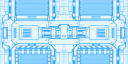
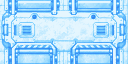
fix(belts): derive blueprint sprites from the closed-box and crossing art
The splitter blueprint still showed the old open shape; the connector used the
vanilla conveyor blueprint and the crossings their colour icon. tools/belt-sprites
now derives belt_{splitter,connector,heat_crossing,cable_crossing}_blueprint.png
from the part masters (luminance rank-matched to the ramp measured on the old
splitter blueprint, same (255 - R) * 0.8 alpha). Old blueprint master removed.

diff --git a/tools/belt-sprites/main.go b/tools/belt-sprites/main.go
@@ -20,28 +20,65 @@ import (
 	"math"
 	"os"
 	"path/filepath"
+	"sort"
 	"strings"
 )
 
 // masterTile is the stored master resolution per tile; the game uses 64 px per tile.
 const masterTile = 256
 
-// sprite: master name, size in tiles (w, h), output names for the 64 px/tile sprite and its editor icon (32 px/tile).
+// sprite: master name, size in tiles (w, h), output names for the 64 px/tile sprite, its editor icon (32 px/tile) and
+// its blueprint (64 px/tile, derived from the same master by blueprintOf; "" = vanilla blueprint inherited).
 type sprite struct {
-	master     string
-	w, h       int
-	file, icon string
+	master                string
+	w, h                  int
+	file, icon, blueprint string
 }
 
 var sprites = []sprite{
-	{"belt", 1, 1, "belt.png", "belt_icon.png"},
-	{"belt_connector", 1, 1, "belt_connector.png", "belt_connector_icon.png"},
-	{"belt_splitter", 2, 1, "belt_splitter.png", "belt_splitter_icon.png"},
-	{"belt_splitter_blueprint", 2, 1, "belt_splitter_blueprint.png", ""},
+	{"belt", 1, 1, "belt.png", "belt_icon.png", ""},
+	{"belt_connector", 1, 1, "belt_connector.png", "belt_connector_icon.png", "belt_connector_blueprint.png"},
+	{"belt_splitter", 2, 1, "belt_splitter.png", "belt_splitter_icon.png", "belt_splitter_blueprint.png"},
 	// Crossings: masters are drawn like belt.png (belt up, heat pipe / cable entering at the left and right edges under
 	// the belt); baked rotated 90 degrees clockwise into the part frame (belt flows right, network on Up/Down).
-	{"belt_heat_crossing", 1, 1, "belt_heat_crossing.png", "belt_heat_crossing_icon.png"},
-	{"belt_cable_crossing", 1, 1, "belt_cable_crossing.png", "belt_cable_crossing_icon.png"},
+	{"belt_heat_crossing", 1, 1, "belt_heat_crossing.png", "belt_heat_crossing_icon.png", "belt_heat_crossing_blueprint.png"},
+	{"belt_cable_crossing", 1, 1, "belt_cable_crossing.png", "belt_cable_crossing_icon.png", "belt_cable_crossing_blueprint.png"},
+}
+
+// blueprintRamp: colour by luminance rank (0 = darkest), measured on the former Codex splitter blueprint master
+// (quantiles 0/.1/.25/.5/.75/1), so derived blueprints keep the vanilla-like translucent blue look.
+var blueprintRamp = []struct {
+	t       float64
+	r, g, b float64
+}{{0, 0, 107, 237}, {.1, 16, 140, 247}, {.25, 49, 177, 253}, {.5, 104, 202, 252}, {.75, 160, 222, 252}, {1, 166, 225, 252}}
+
+// blueprintOf maps the part art to the blueprint ramp by luminance rank (histogram match, no pixel drawn) and keys alpha
+// from the red channel like vanilla blueprints (pale ~A76, lines ~A165+).
+func blueprintOf(m *image.NRGBA) *image.NRGBA {
+	out := image.NewNRGBA(m.Rect)
+	n := len(m.Pix) / 4
+	lum := make([]float64, n)
+	idx := make([]int, n)
+	for i := range n {
+		p := m.Pix[4*i:]
+		lum[i] = 0.299*float64(p[0]) + 0.587*float64(p[1]) + 0.114*float64(p[2])
+		idx[i] = i
+	}
+	sort.Slice(idx, func(a, b int) bool { return lum[idx[a]] < lum[idx[b]] })
+	for rank, i := range idx {
+		t := float64(rank) / float64(max(n-1, 1))
+		k := 1
+		for k < len(blueprintRamp)-1 && blueprintRamp[k].t < t {
+			k++
+		}
+		lo, hi := blueprintRamp[k-1], blueprintRamp[k]
+		f := (t - lo.t) / (hi.t - lo.t)
+		r := lo.r + f*(hi.r-lo.r)
+		o := out.Pix[4*i:]
+		o[0], o[1], o[2] = uint8(r), uint8(lo.g+f*(hi.g-lo.g)), uint8(lo.b+f*(hi.b-lo.b))
+		o[3] = uint8((255 - r) * 0.8)
+	}
+	return out
 }
 
 // layers are masters baked by code below, not by the sprites loop: belt_lamp = Codex indicator glow on black.
@@ -579,13 +616,10 @@ func main() {
 		if strings.HasSuffix(sp.master, "_crossing") {
 			m = rotateCW(m)
 		}
-		if strings.HasSuffix(sp.master, "_blueprint") {
-			// Vanilla blueprints are translucent blue (pale ~A76, lane ~A165): key alpha from the red channel.
-			for i := 0; i < len(m.Pix); i += 4 {
-				m.Pix[i+3] = uint8(float64(255-m.Pix[i]) * 0.8)
-			}
-		}
 		save(resize(m, sp.w*64, sp.h*64), filepath.Join(*outDir, sp.file))
+		if sp.blueprint != "" {
+			save(blueprintOf(resize(m, sp.w*64, sp.h*64)), filepath.Join(*outDir, sp.blueprint))
+		}
 		if sp.icon != "" {
 			save(resize(m, sp.w*32, sp.h*32), filepath.Join(*outDir, sp.icon))
 		}
